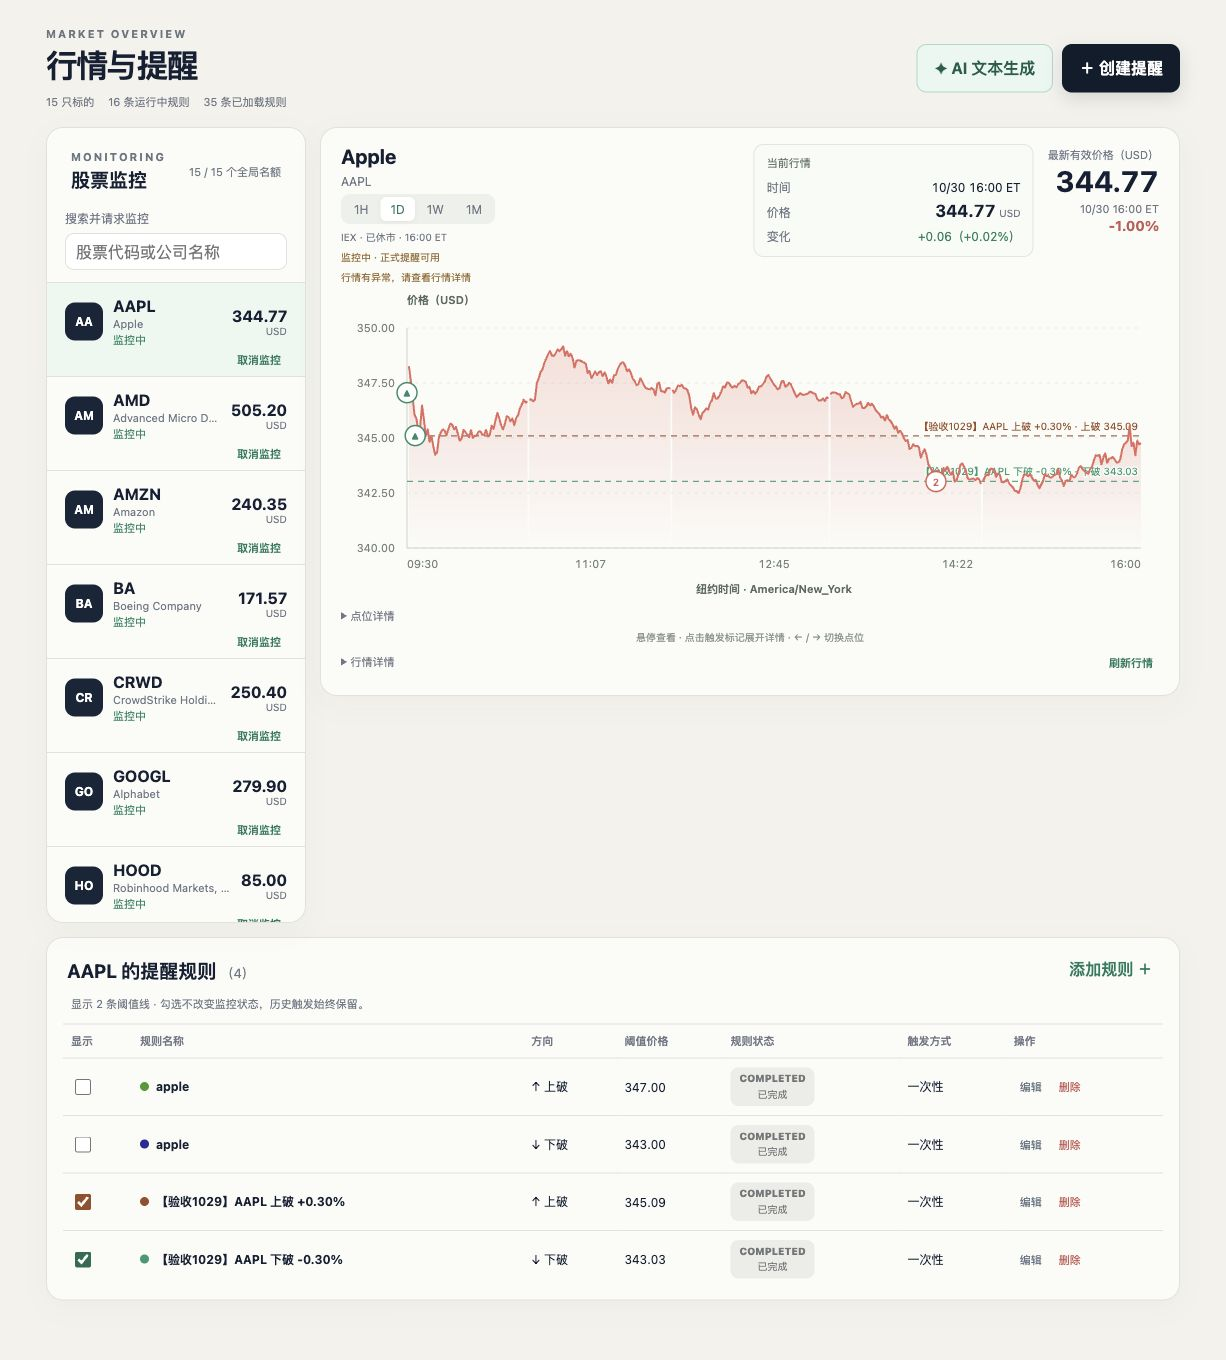
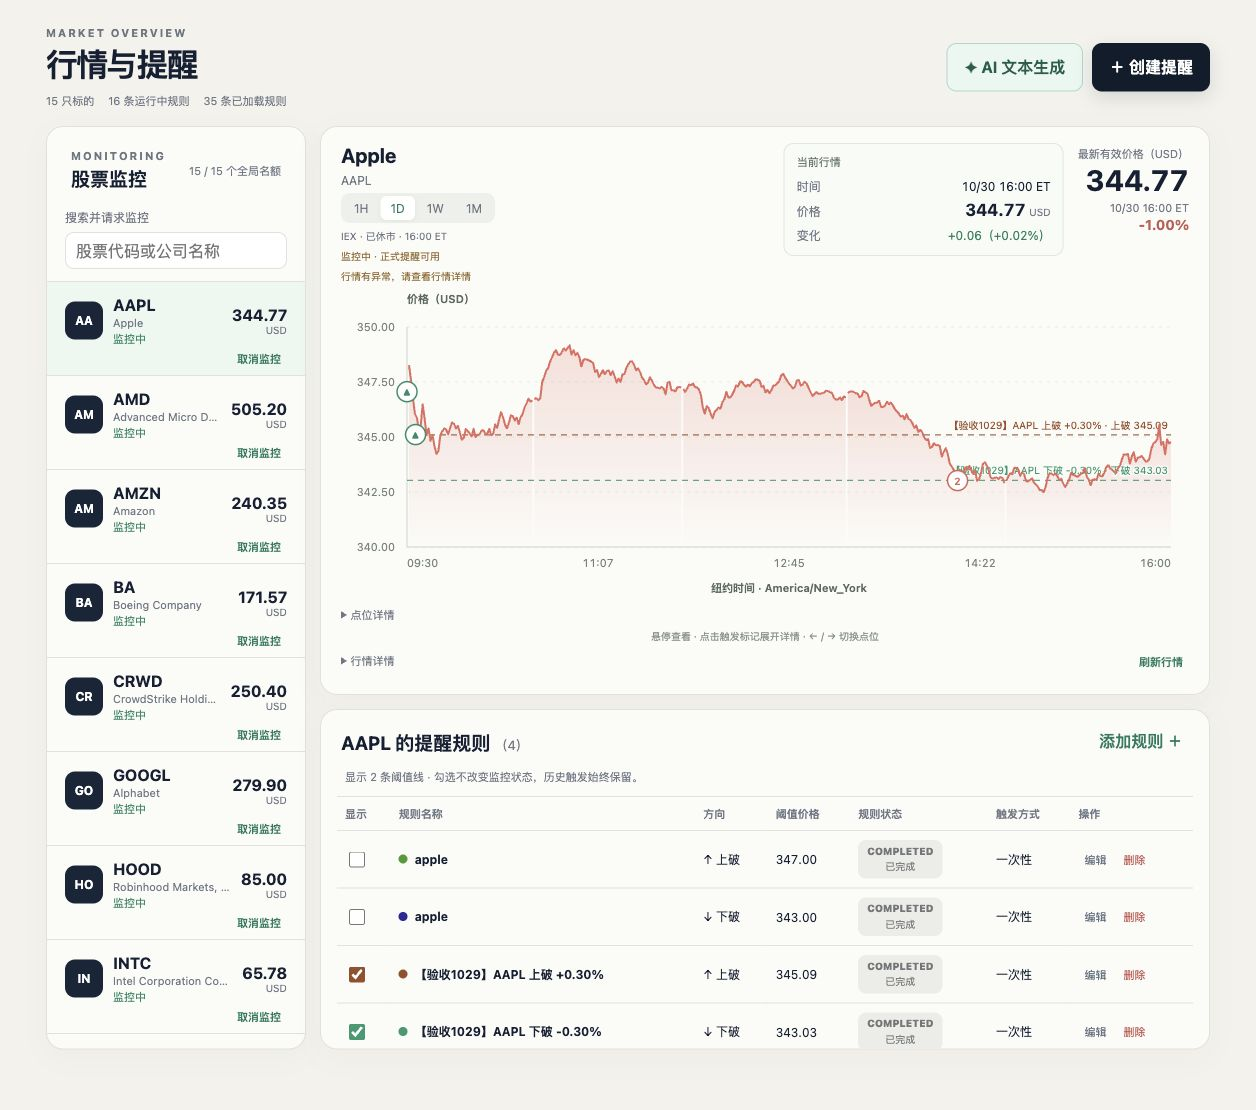
fix: align dashboard rules with scrollable stock monitoring

diff --git a/frontend/src/views/DashboardView.vue b/frontend/src/views/DashboardView.vue
@@ -305,8 +305,8 @@ onMounted(() => {
     <p v-if="error" class="page-error">{{ error }} <button @click="load">重试</button></p>
     <p v-if="!loading && !monitoringManaged" class="muted">当前显示原有共享监控，个人监控管理尚未启用。</p>
     <div class="dashboard-grid">
-      <StockMonitoringPanel v-if="monitoringManaged && monitoringPage" :key="auth.session?.user.id" :page="monitoringPage" :selected-id="selectedId" @select="selectStock" @changed="load" />
-      <section v-else class="panel stock-panel">
+      <StockMonitoringPanel v-if="monitoringManaged && monitoringPage" :key="auth.session?.user.id" class="dashboard-watchlist" :page="monitoringPage" :selected-id="selectedId" @select="selectStock" @changed="load" />
+      <section v-else class="panel stock-panel dashboard-watchlist">
         <div class="panel-head"><div><p class="eyebrow">MONITORING</p><h2>股票监控</h2></div><input v-model="search" class="compact-input" placeholder="筛选当前股票" /></div>
         <div v-if="loading" class="loading-block">加载行情中…</div>
         <div class="stock-list" role="region" aria-label="股票报价列表" tabindex="0">
@@ -343,8 +343,7 @@ onMounted(() => {
         </PriceSparkline>
         <div class="market-bottom-tools"><details v-if="timeline" class="market-data-details"><summary>行情详情</summary><p>Alpaca · IEX 单一交易所 · 未复权 · {{ freshnessLabel[timeline.health.freshness] }}</p><p>{{ date(selectedStock?.latestQuoteAt ?? null) }} · {{ prices.length }} 个绘图点</p><p v-if="timeline.dataQuality">分钟点 {{ timeline.dataQuality.displayedBars }} / {{ timeline.dataQuality.availableBars }} · 预期区间 {{ timeline.dataQuality.expectedMinutes }} · 暂无分钟线 {{ timeline.dataQuality.unavailableMinutes }}</p><p v-if="timeline.dataQuality && !timeline.dataQuality.historyCoverageComplete">历史下载未覆盖完整范围。</p><p v-if="timeline.dataQuality && !timeline.dataQuality.calendarCoverageComplete">交易日历未覆盖完整范围，未知时段未压缩。</p><p v-if="timeline.gaps.length">有稀疏成交、缓存或实时基线缺口；不补造价格和提醒。</p><p v-if="timeline.health.lastError">最近安全错误：{{ timeline.health.lastError }}</p><p>{{ allEvents.length }} 条已加载历史触发，独立于阈值线勾选。</p></details><button v-if="nextCursor" class="text-button" :disabled="eventsLoading" @click="moreEvents">{{ eventsLoading ? '读取中…' : '加载更多触发' }}</button><button class="text-button" :disabled="chartLoading" @click="loadQuotes()">{{ chartLoading ? '读取中…' : '刷新行情' }}</button></div>
       </section>
-    </div>
-    <section class="panel rules-panel">
+      <section class="panel rules-panel">
         <div class="rule-section-head"><h2>{{ selectedStock?.symbol }} 的提醒规则 <small>（{{ selectedRules.length }}）</small></h2><button class="text-button" :disabled="!selectedStock || !canCreateRule" @click="openCreate">添加规则 ＋</button></div>
         <p v-if="rulesLoading" class="rule-display-hint" role="status">正在同步完整规则列表…</p>
         <p v-if="rulesError" class="page-error" role="alert">{{ rulesError }} <button @click="loadQuotes()">重试</button></p>
@@ -365,6 +364,7 @@ onMounted(() => {
         </div>
         <div v-else-if="!rulesLoading && !loading && !rulesError && !chartError" class="empty-state roomy"><strong>还没有提醒规则</strong><span>{{ canCreateRule ? '选择上破或下破价格，系统会在真正穿越阈值时触发。' : '行情订阅确认后，可以创建该股票的提醒规则。' }}</span><button class="button secondary" :disabled="!selectedStock || !canCreateRule" @click="openCreate">创建第一条规则</button></div>
       </section>
+    </div>
     <AiDraftModal :open="aiModalOpen" @close="aiModalOpen = false" @use-draft="useAiDraft" />
     <RuleModal :open="modalOpen" :stock="selectedStock" :rule="editingRule" :initial-draft="initialDraft" @close="modalOpen = false" @saved="replaceRule" />
   </div>
@@ -375,7 +375,12 @@ onMounted(() => {
 .page-head { margin-bottom: 18px; align-items: center; }
 .page-head h1 { font-size: 32px; }
 .dashboard-counts { display: flex; gap: 14px; flex-wrap: wrap; color: var(--muted); font-size: 11px; }
-.dashboard-grid { grid-template-columns: 260px minmax(0, 1fr); gap: 14px; align-items: start; }
+.dashboard-grid { grid-template-columns: 260px minmax(0, 1fr); grid-template-rows: auto auto; gap: 14px; align-items: start; }
+/* Let the chart and rules set the height; the stock list scrolls within both rows. */
+.dashboard-watchlist { grid-column: 1; grid-row: 1 / span 2; align-self: stretch; contain: size; display: flex; flex-direction: column; min-height: 0; overflow: hidden; }
+.dashboard-watchlist :deep(.monitor-list), .stock-list { flex: 1 1 0; min-height: 0; max-height: none; overflow-y: auto; overscroll-behavior: contain; scrollbar-gutter: stable; }
+.dashboard-watchlist :deep(.panel-head), .dashboard-watchlist :deep(.asset-search), .dashboard-watchlist :deep(.message), .dashboard-watchlist :deep(.asset-results) { flex-shrink: 0; }
+.market-panel { grid-column: 2; grid-row: 1; min-width: 0; }
 .stock-panel .panel-head { padding: 16px; gap: 10px; }
 .stock-panel .panel-head h2 { font-size: 17px; }
 .stock-panel .compact-input { width: 122px; font-size: 11px; }
@@ -387,13 +392,19 @@ onMounted(() => {
 .window-tabs button.active { background: white; color: #23785b; box-shadow: 0 1px 5px #193b2310; }
 .market-status, .monitor-status, .market-warning { margin: 6px 0 0; color: var(--muted); font-size: 10px; line-height: 1.4; }
 .watchlist-warning { margin: 12px 16px; color: var(--muted); font-size: 12px; line-height: 1.5; }
-.stock-list { max-height: 490px; overflow-y: auto; }
 .monitor-status, .market-warning { color: #946a2f; }
 .market-bottom-tools { display: flex; gap: 16px; align-items: start; padding: 0 20px 12px; font-size: 11px; }
 .market-data-details { margin-right: auto; min-width: 0; color: var(--muted); }
 .market-data-details p { font-size: 11px; line-height: 1.6; margin: 7px 0 0; }
-.rules-panel { margin-top: 14px; }
+.rules-panel { grid-column: 2; grid-row: 2; min-width: 0; overflow: hidden; }
 .rules-panel .rule-section-head { border-top: 0; padding: 16px 20px 12px; }
+.rules-panel .rule-table-scroll { max-height: 280px; overflow: auto; overscroll-behavior: contain; scrollbar-gutter: stable; }
+.rules-panel .rule-table th { position: sticky; top: 0; z-index: 1; background: var(--paper); }
 .positive { color: #20815d; } .negative { color: #c45a53; }
-@media (max-width: 980px) { .dashboard-grid { grid-template-columns: minmax(0, 1fr); } .stock-list { max-height: 280px; } }
+@media (max-width: 980px) {
+  .dashboard-grid { grid-template-columns: minmax(0, 1fr); grid-template-rows: none; }
+  .dashboard-watchlist, .market-panel, .rules-panel { grid-column: auto; grid-row: auto; }
+  .dashboard-watchlist { contain: none; }
+  .dashboard-watchlist :deep(.monitor-list), .stock-list { flex: 0 1 auto; max-height: 280px; }
+}
 </style>

diff --git a/docs/v2-handoff.md b/docs/v2-handoff.md
@@ -1,5 +1,9 @@
 # PricePulse V2 新聊天交接
 
+行情布局收尾（2026-10-31）：用户批准将规则表上移至右侧图表正下方，股票与规则各自内部滚动、两列底边齐平。仅修改 `DashboardView.vue` 结构／局部 CSS，规则表可视区最多 280px（约 3–4 行）、固定表头，980px 以下堆叠；1500px 实页底边差 0px／间隔 14px、390px 无文档横向溢出，65 项前端／探针及类型／构建通过，README 两张真实图同步更新。未改业务逻辑、正式数据、后端进程或连接。
+
+本轮用户明确授权将本次及此前性能／README 改动合并到 GitHub，覆盖先前“保持草稿／不合并”的要求：PR #2 已于此前合并，实际待交付为同分支 PR #3。性能原始测量及既有外部待验项保留，详见 [截图与布局验收](v2.1-presentation.md)。
+
 性能与 README 收尾（2026-10-31，Australia/Sydney）：用户仅授权性能验证、文档和真实截图，未开启功能阶段。已用独立限额 MySQL／Redis 完成 1000／10000／50000 规则三方案、18 场景各 120 样本，复用生产 RuleIndex／ThresholdIndex，2160 组候选集合零差异；10 万固定行情回放含真实实验行锁／持久水位控制，规则 SELECT 100000→78956（减少21.04%），同价短路 MySQL 对照80000（额外减少1.31%），数据库侧计数核对一致。热候选 P95 Redis 较低，但加回查选择层58.908s，比MySQL39.861s更慢，未宣称整体加速。原始安全合成数据、EXPLAIN、DDL与计数见 [实验报告](performance/v2.1-rule-selection-2026-10-31/report.md)；仅汇总阶段的可变统计引用已修复，小样本复验，原完整测量与源码保留，未伪称重跑全规模。
 
 README 已改展示型，当前真实页面图裁除账户侧栏；行情、监控入口、既有普通模拟与正式通知可展示。开盘跳空仅有未提交参数，搜索结果／添加成功与跳空触发结果未制作，避免改正式目录缓存、订阅或覆盖实验，详见 [截图记录](v2.1-presentation.md)。本人正常浏览器登录，未注入会话或伪造正式事件。业务源码未改、正式 V10 未迁移、原服务未停或重启，无第二条 IEX；既有连接遗留与自然跨日待验继续保留。本轮结束后停止开发，只进入简历和面试准备。下文为先前封版记录。

diff --git a/docs/v2.1-presentation.md b/docs/v2.1-presentation.md
@@ -19,3 +19,13 @@
 - 搜索结果／新增成功及模拟开盘跳空触发结果仍缺。为遵守“不修改正式 MySQL／订阅／保存实验”，不制作这些状态，不放失效占位，也不把其他实验的事件挪作跳空结果。
 
 本轮实验仅用合成规则及隔离容器；性能结论见 [实验报告](performance/v2.1-rule-selection-2026-10-31/report.md)。正式系统的既有外部验收项仍见 [交付记录](v2.1-final-delivery.md)，本轮不将其改写为通过。
+
+## 行情布局补充（2026-10-31）
+
+用户另行批准紧凑布局及将此前改动合并到 GitHub。仅调整 `DashboardView.vue` 的结构和局部 CSS：左侧监控列表跨两行，右侧依次是图表和规则；左列不再以自身内容高度撑开图表下方。规则表最大可视高度 280px，约显示 3–4 行，更多内容内部滚动，表头固定。编辑、删除和勾选逻辑均未改动。
+
+- 1500px 桌面真实页面：图表与规则间隔 14px，左右卡片底部差 0px；股票、规则均可独立滚到末尾，规则内容不会增高页面。
+- 390px 窄屏：自动按股票、图表、规则排列；文档宽度 390px，规则表溢出仅在自身内部处理。
+- 勾选两条已完成规则可见对应阈值线，四条规则状态仍为 COMPLETED，三组历史触发标记仍显示。
+- 65 项既有前端／离线探针测试全部通过；`npm run build --prefix frontend` 的 TypeScript 和 Vite 构建通过。没有为纯布局改动重跑后端或全规模性能实验。
+- 更新行情、股票监控两张实际截图，仍裁除私人侧栏；未提交搜索、创建或取消监控、规则编辑、模拟推进及通知已读操作，也未重启服务。

diff --git a/README.md b/README.md
@@ -8,7 +8,7 @@
 
 ![真实行情、阈值线与规则管理](docs/images/v21-market-alerts.jpg)
 
-当前 V2.1 实际运行截图，账户侧栏已裁除。保留真实休市状态与异常提示。
+当前 V2.1 实际运行截图，账户侧栏已裁除。股票列表独立滚动，规则紧接图表、约显示 3–4 行并支持表内滚动，两列底部对齐。保留真实休市状态与异常提示。
 
 <details>
 <summary>更多实际页面：监控入口、模拟与正式通知</summary>
